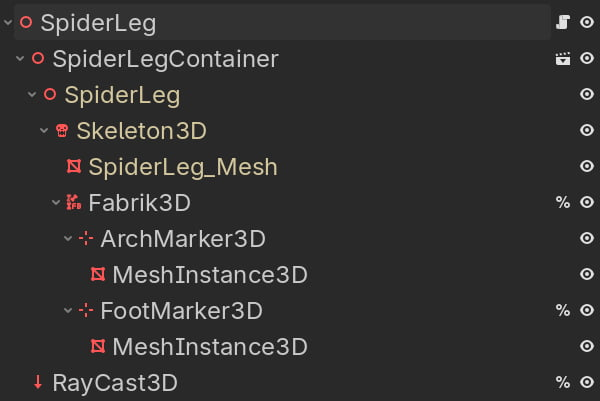
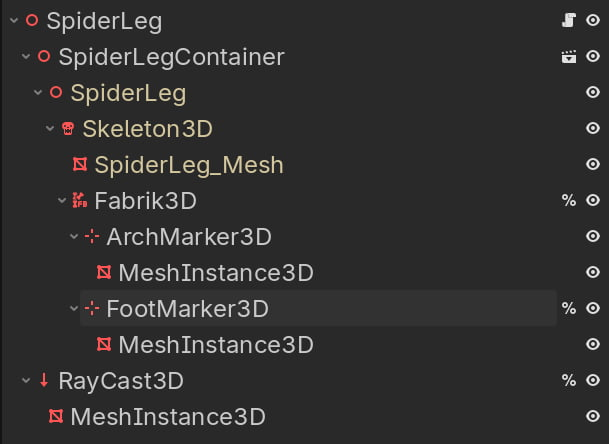
updated image

diff --git a/content/blog/2026-02-26-ik-spider.md b/content/blog/2026-02-26-ik-spider.md
@@ -1,5 +1,5 @@
 ---
-title: Making an IK-Spider in Godot
+title: (DRAFT) Making an IK-Spider in Godot
 description: Post about how I built a walking Spider with Inverse Kinematics limbs
 date: 2026-02-26
 eleventyComputed:
@@ -12,15 +12,19 @@ permalink: false
 
 # TODO:
     - Finish implementation
+    - Update Spider leg image and check if section's text is to date
+    - Squash repository history
     - Make repository public
     - Update links on this post
     - make this post public (remove tags `eleventyExcludeFromCollections` and `permalink`)
+    - Remove `(DRAFT)` from title
+    
 
-After watching a this video explanation
-https://www.youtube.com/watch?v=e6Gjhr1IP6w
-on how to create a walking Spider with Inverse Kinematics limbs, I wanted to see how to make it myself but using Godot **v4.6**.
+After watching a this video [Unity procedural animation tutorial (10 steps)](https://www.youtube.com/watch?v=e6Gjhr1IP6w), explaining how to create a walking Spider with Inverse Kinematics limbs, I wanted to see how to make it myself but using Godot **v4.6**.
 
-Checking on Youtube to see if someone already had done it before, I found [NEW Procedural Animation In Godot 4.0](https://www.youtube.com/watch?v=G_seJ2Yg1GA), but the problem was that this video was for Godot's **V4** and the IK related `nodes` in Godot were deprecated/removed in favour of being rewritten, this rewriting took multiple Godot's **4.x** releases, the new specialized nodes were introduced on **v4.6**
+Checking on Youtube to see if someone already had done it before, I found [NEW Procedural Animation In Godot 4.0](https://www.youtube.com/watch?v=G_seJ2Yg1GA), but the problem was that this video was for Godot's **V4.0** and the IK related `nodes` in Godot were deprecated/removed in favour of being rewritten. 
+
+This rewriting effort took multiple Godot's **4.x** releases, the new specialized nodes were introduced on **v4.6**
 
 For a fuller explanation see [Inverse Kinematics Returns to Godot 4.6](https://godotengine.org/article/inverse-kinematics-returns-to-godot-4-6/)
 
@@ -62,7 +66,7 @@ I used a `CharacterBody3D` node to be able to easily move it using the Inputs.
 
 The `CollisionShape3D` is just a 3D sphere # TODO: more explanation
 
-The `ThirdPersonCamera` is a separate `Scene` that contains the logic and nodes related with the `Camera3D` # TODO: more explanation?
+The `ThirdPersonCamera` is a separate `Scene` that contains the logic and nodes related with the `Camera3D`. Pressing the left mouse click allows to orbit around the Spider.
 
 The `SpiderBody` is a separate `Scene` that contains the 3D mesh of the Spider, using `Editable children` to be able to to inner modifications/additions to the __body__ nodes if needed.
 
@@ -90,7 +94,8 @@ __More information on [FABRIK3D](https://docs.godotengine.org/en/stable/classes/
 
 ![SpiderLeg's FABRIK3D settigns](/img/2026-02-26-ik-spider/spider-leg-fabrik-3d-settings.jpg)
 
-For this to work the `Deterministic` option needs to be active, on
+# TODO: To check this setting?
+For this to work correctly the `Deterministic` option needs to be `true`, on the `Fabrik3D`
 
 ##### `FABRIK3D` settings
 
@@ -108,15 +113,18 @@ This __arch__ node (it's the **pink sphere** on the video above) makes sure that
 
 The last item on `Settings` applies to all the bones and uses the `FootMarker3D` as `Target Node` (it's the **blue ring** in the video above).
 
+The `FootMarker3D` has `Top Level` as `true`, so it **does not** inherit the transformations of the parent, so it becomes __left behind__, not moving and rotating with the parent.
+
+
 #### `RayCast3D`
 
-The `RayCast3D` is used to know where the collision point with the scenario happened, and if the distance between the current position of the `FootMarker3D` to the collision point is too big then the **new target** position of the `FootMarker3D` should be the `Raycast3D` collision point.
+The `RayCast3D` (seen in green) is used to know where the collision point with the scenario happened, and if the distance between the current position of the `FootMarker3D` to the collision point is too big then the **new target** position of the `FootMarker3D` should be the `Raycast3D` collision point.
 
 The maximum distance between the collision position and `FootMarker3D`'s position uses the variable `step_max_distance` as it's value.
 
 To make the movement of the `FootMarker3D` to the new position   more visually appealing this __relocation__ is done using a `Tween`, where the position gets moved like in a arch (lifting up midway to the new position).
 
-The height of this tween arch uses the variable `step_height` as it's value.
+The height of the tween's arch uses the variable `step_height` as it's value.
 
 ## The leg movement order
 
@@ -124,3 +132,6 @@ To understand the order in which limb moves in a real Spider I used this video a
 
 # TODO: Write insights paragraphs
 
+Each leg as a variable that points to an mirror/opposite leg (`mirror_spider_leg`), meaning the **front left** leg points to the **front right** leg and vice versa.
+
+This allows to **only** start the step movement with the current leg if the **mirror** is **not** stepping.

diff --git a/content/blog/2026-02-27-web-image-formats-in-2026.md b/content/blog/2026-02-27-web-image-formats-in-2026.md
@@ -1,5 +1,5 @@
 ---
-title: Comparing web image formats in 2026
+title: (DRAFT) Comparing web image formats in 2026
 description: Post comparing different web image formats and their strengths and weaknesses
 date: 2026-02-27
 eleventyComputed:
@@ -13,9 +13,8 @@ permalink: false
 # TODO:
     - Get sample photos
     - Compare HDR?
-    - Compare HDR?
-    - 
     - make this post public (remove tags `eleventyExcludeFromCollections` and `permalink`)
+    - - Remove `(DRAFT)` from title
 
 # Which image formats to compare?
 
